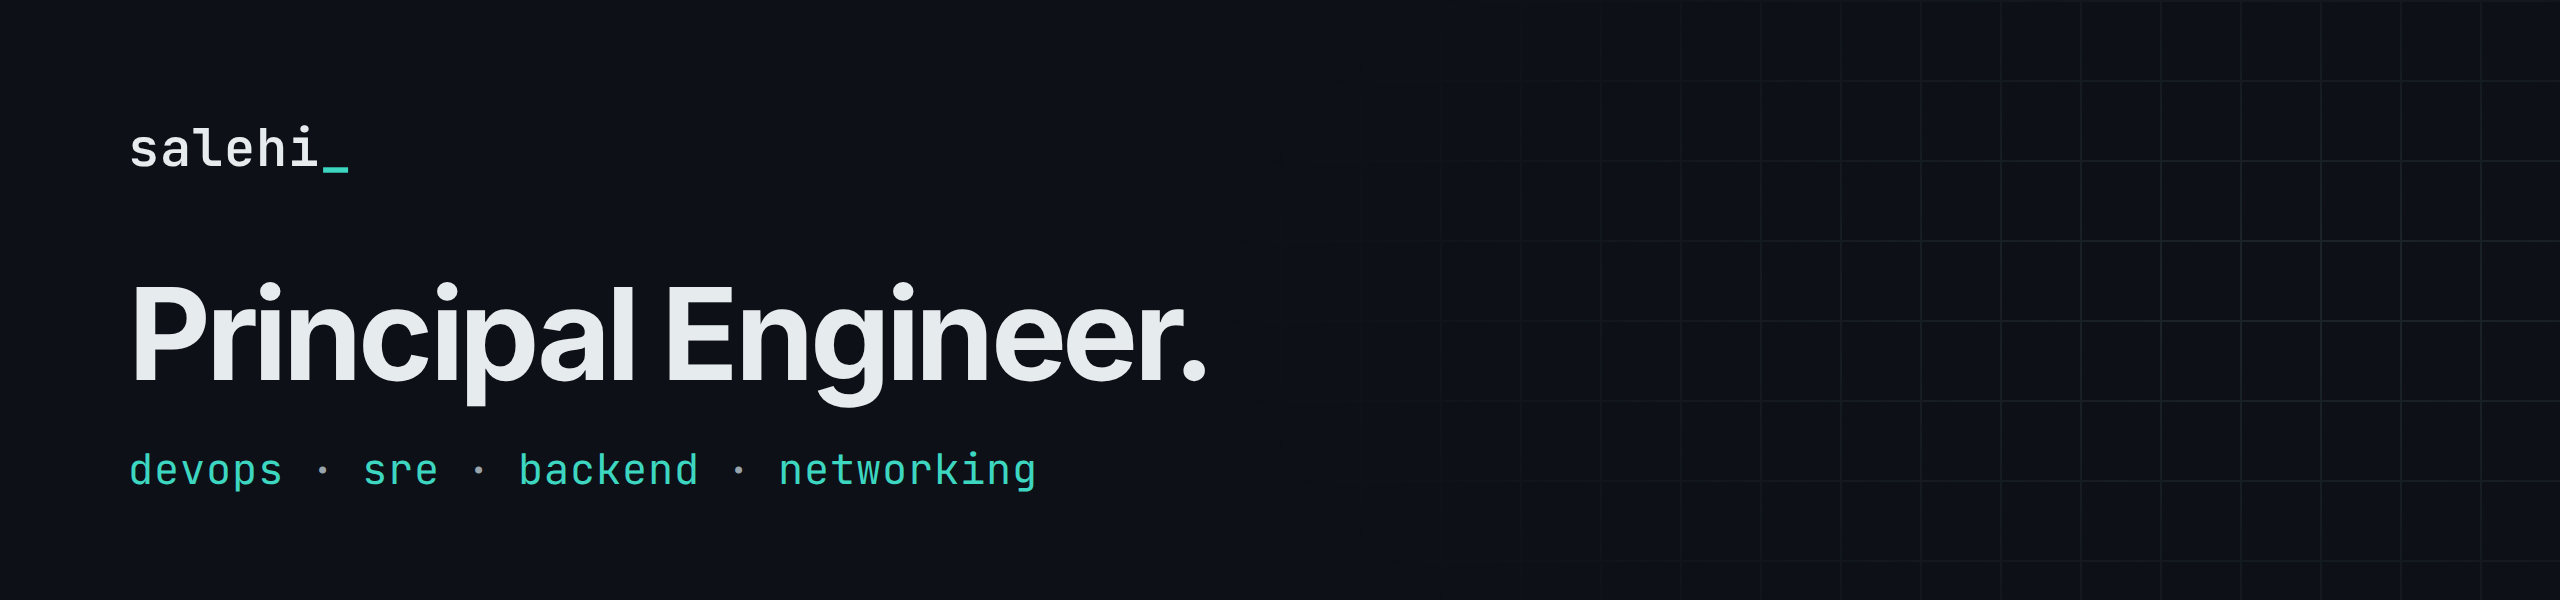
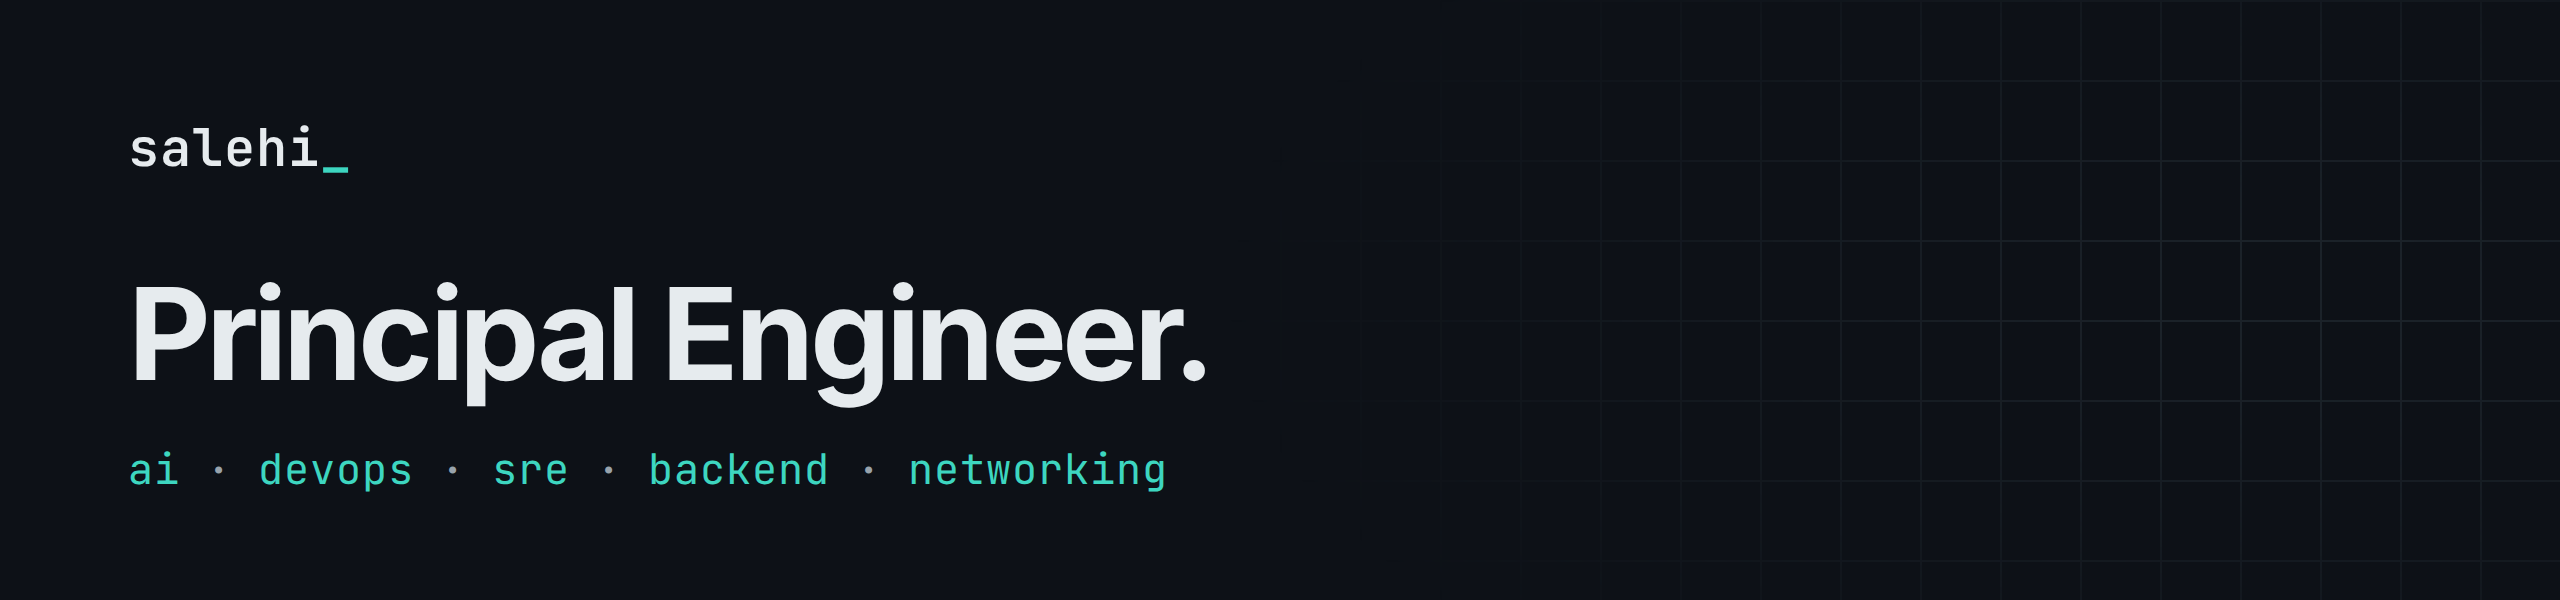
Add AI to title; drop Toolbox section

Changed region(s): [[0.0312, 0.75, 0.4688, 0.81]]

diff --git a/README.md b/README.md
@@ -1,7 +1,7 @@
 <a href="https://salehi.github.io">
   <picture>
     <source media="(prefers-color-scheme: dark)" srcset="assets/banner-dark.png">
-    <img alt="salehi — Principal Engineer: DevOps, SRE, backend & networking" src="assets/banner-light.png" width="100%">
+    <img alt="salehi — Principal Engineer: AI, DevOps, SRE, backend & networking" src="assets/banner-light.png" width="100%">
   </picture>
 </a>
 
@@ -41,14 +41,5 @@
 <tr><td width="50%" valign="top"><a href="https://github.com/salehi/meshcheck-agent"><b>meshcheck-agent</b></a> <code>Go</code><br><sub>MeshCheck node agent: ping/TCP/HTTP/DNS/TLS/SMTP probes with signed results</sub></td><td width="50%" valign="top"><a href="https://github.com/salehi/nginx-cors-gate"><b>nginx-cors-gate</b></a> <code>Nginx</code><br><sub>Nginx CORS gateway that actually blocks unauthorized origins</sub></td></tr>
 <tr><td width="50%" valign="top"><a href="https://github.com/salehi/certbot-dns-arvancloud"><b>certbot-dns-arvancloud</b></a> <code>Python</code><br><sub>Certbot DNS-01 plugin for ArvanCloud wildcard certificates</sub></td><td width="50%"></td></tr>
 </table>
-
-### Toolbox
-
-**Infrastructure** Linux · Docker · Nginx · HAProxy · SSH · automation  
-**Delivery** GitLab CI/CD · Jenkins · test / staging / production environments  
-**Observability** Prometheus · Grafana · Graylog · Netdata · Elasticsearch  
-**Networking** TCP/IP · DNS · TLS · HTTP · WebRTC · STUN/TURN · reverse proxies  
-**Engineering** Go · Python · Django · Starlette / FastAPI · REST APIs  
-**Reliability** high availability · failure isolation · SPOF reduction · monitoring · hardening
 
 <sub>Heatmap and activity refresh automatically every 6 hours.</sub>
